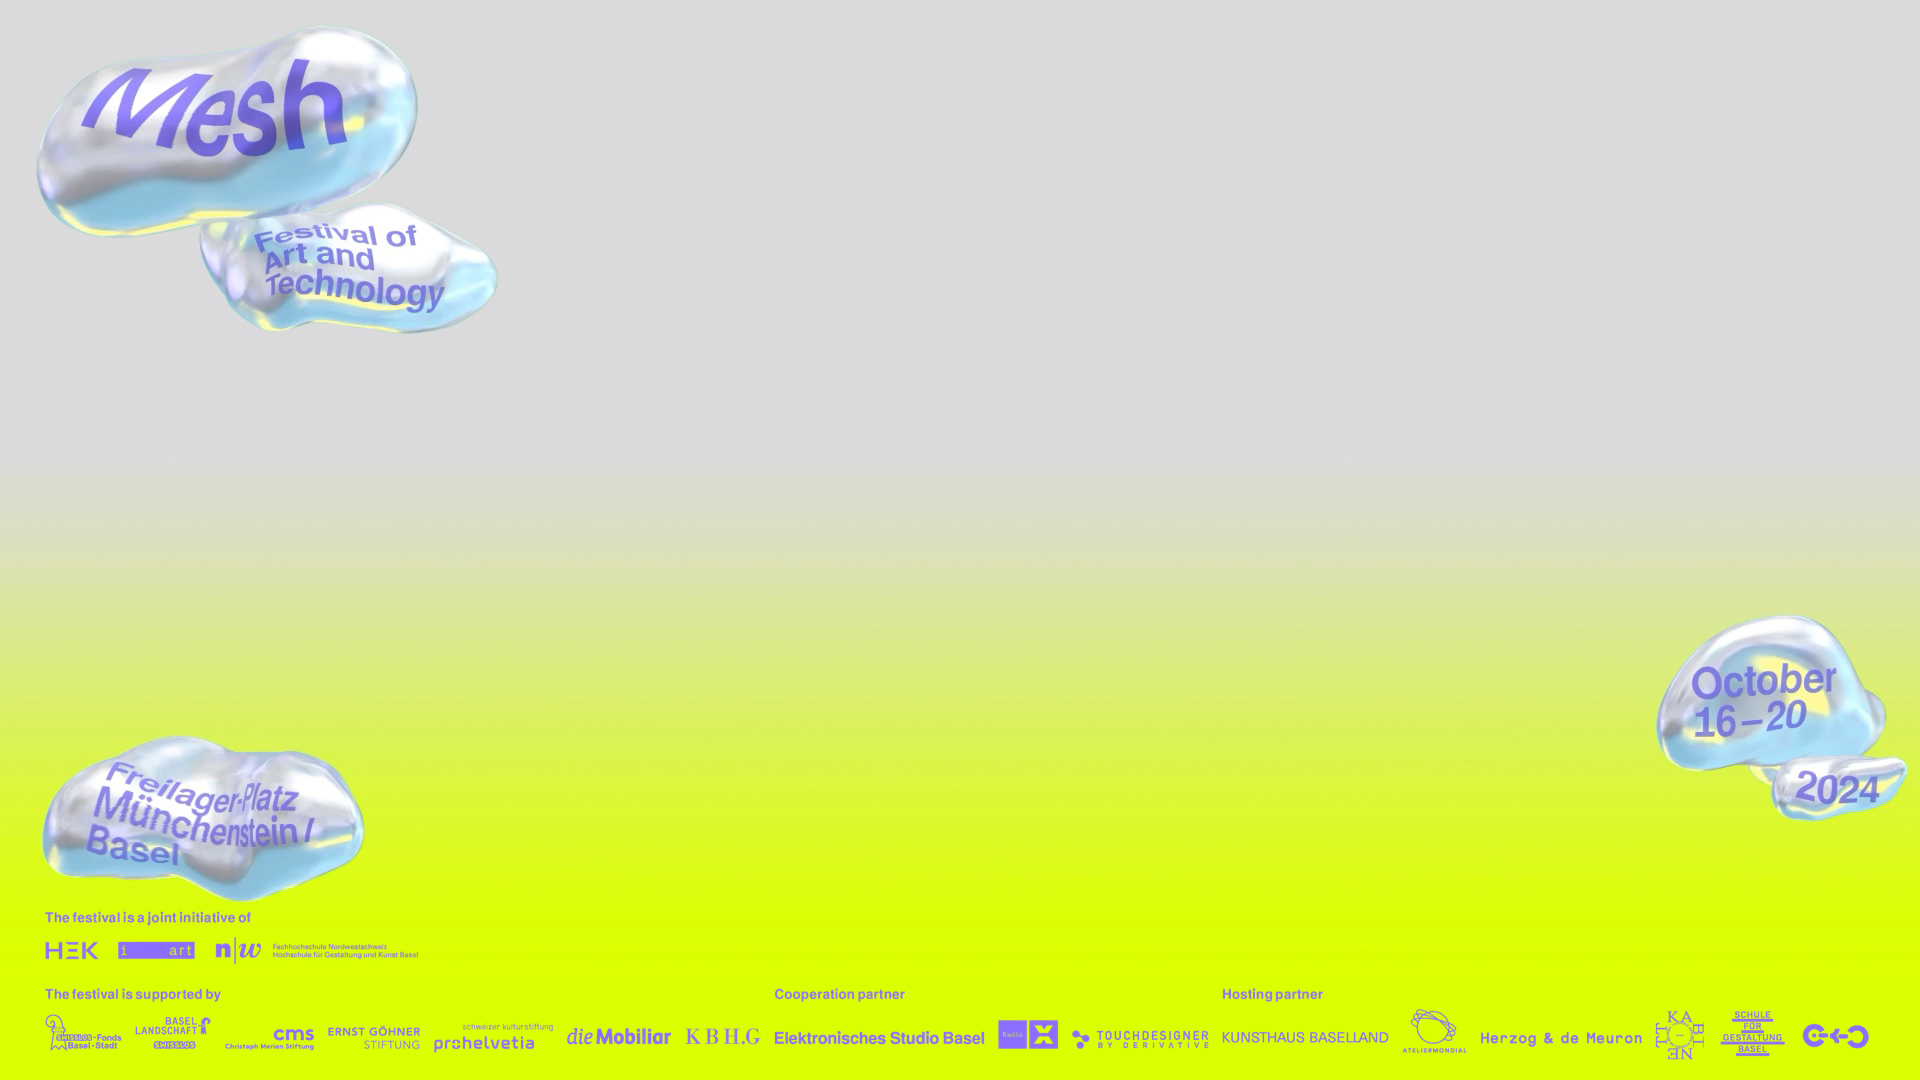
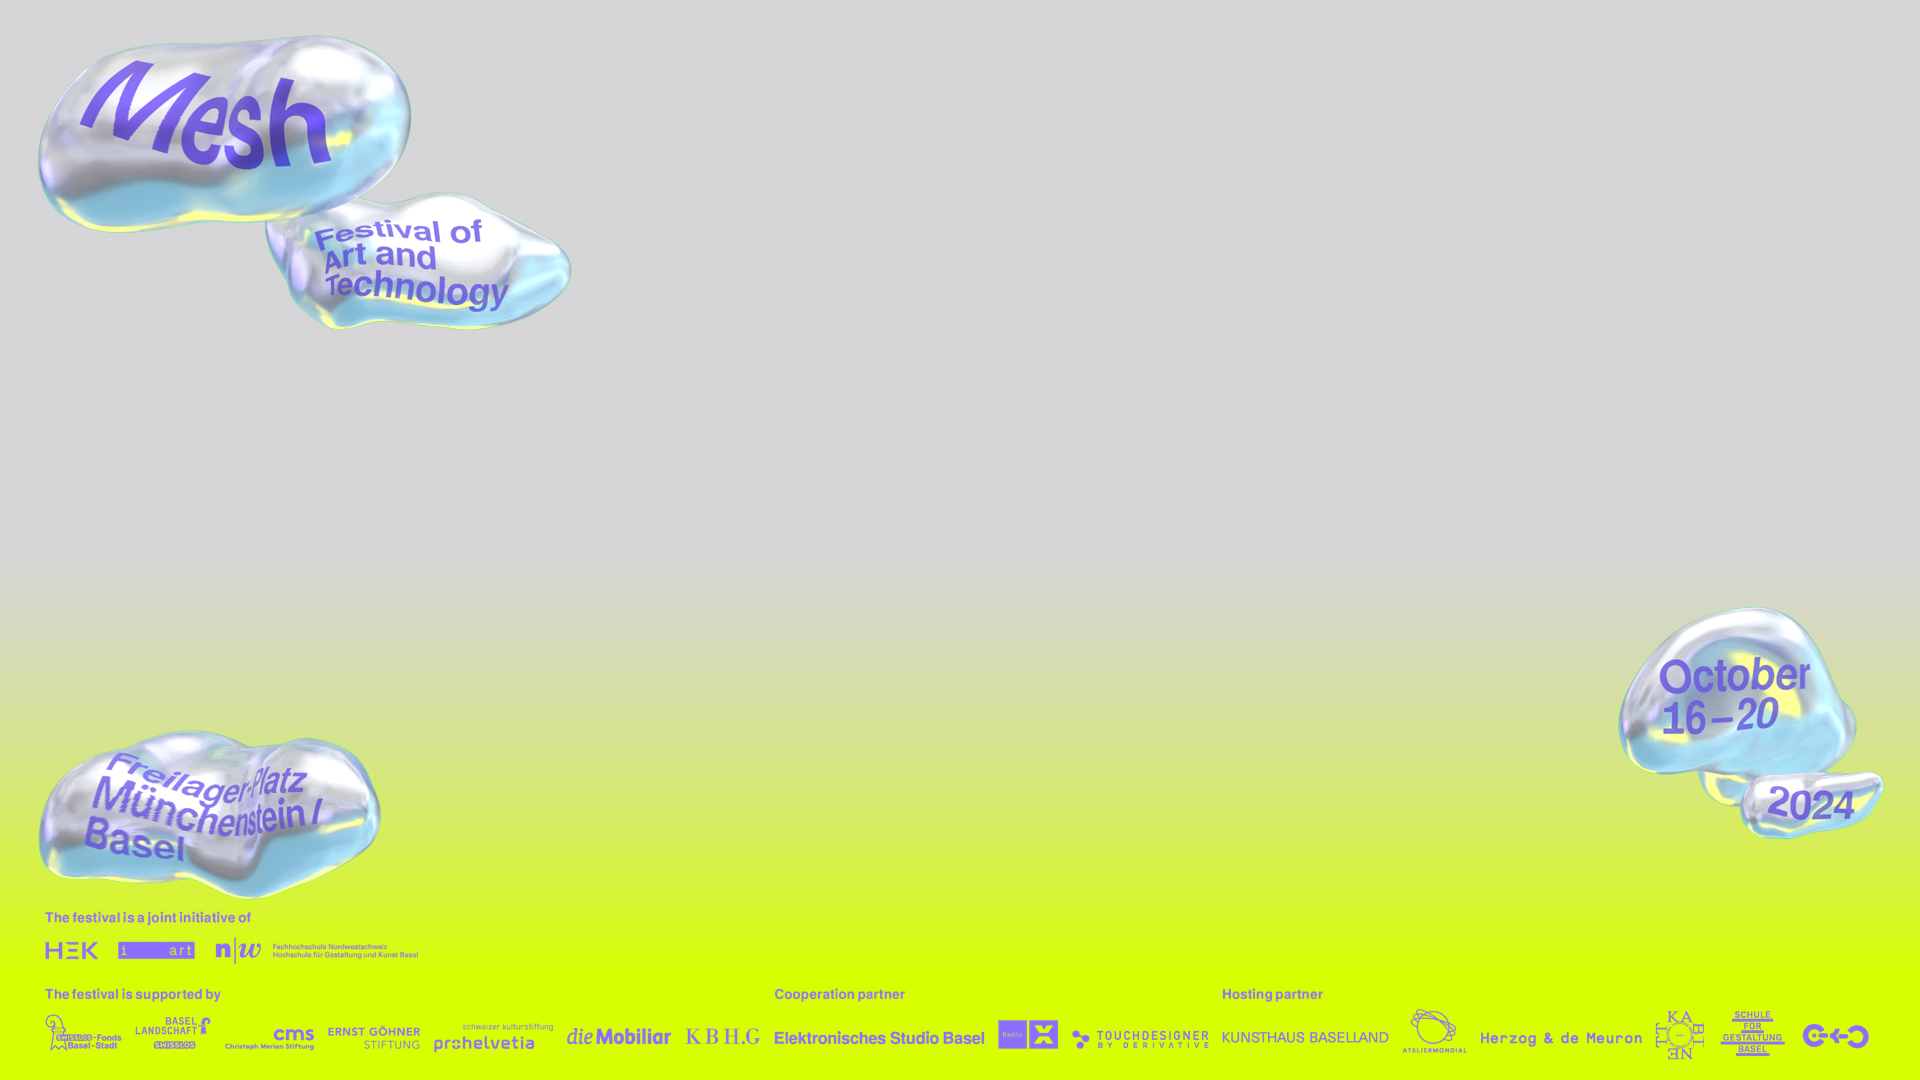
Update Template

diff --git a/static/html/template.html b/static/html/template.html
@@ -139,35 +139,49 @@
             const ctx = canvas.getContext('2d');
             ctx.clearRect(0, 0, 1920, 1080);
 
-            ctx.font = fontSize1*scale+'px FreeSans-JK';
-            ctx.fillStyle = '#8C6EFF'
-            ctx.textAlign = "center";
-            ctx.textBaseline = 'bottom';
+            var background = new Image();
+            background.src = "template1.png";
 
-            y = center;
-            for (let i = separateLines1.length-1; i > -1; i--) {
-                ctx.fillText(separateLines1[i], 960, y);
-                y = y - lineHeightSans*scale;
+            background.onload = function(){
+                ctx.drawImage(background,0,0);   
+
+                ctx.font = fontSize1*scale+'px FreeSans-JK';
+                ctx.fillStyle = '#8C6EFF'
+                ctx.textAlign = "center";
+                ctx.textBaseline = 'bottom';
+
+                y = center;
+                for (let i = separateLines1.length-1; i > -1; i--) {
+                    ctx.fillText(separateLines1[i], 960, y);
+                    y = y - lineHeightSans*scale;
+                }
+
+
+                ctx.textBaseline = 'top';
+                ctx.font = fontSize2*scale+'px FreeSerif-JK';
+                y = center;
+                for (let i = 0; i < separateLines2.length; i++) {
+                    ctx.fillText(separateLines2[i], 960, y);
+                    y = y + lineHeight*scale;
+                }
+                
+                var foreground = new Image();
+                foreground.src = "template2.png";
+
+                foreground.onload = function(){
+                    ctx.drawImage(foreground,0,0);   
+
+                    var dataURL = canvas.toDataURL("image/png");
+
+                    $('body').append('<a id="image" href="'+dataURL+'" download="Mesh-Festival-Cover.png"><img src="'+dataURL+'"></>');
+
+                }
+
+
             }
 
 
-            ctx.textBaseline = 'top';
-            ctx.font = fontSize2*scale+'px FreeSerif-JK';
-            y = center;
-            for (let i = 0; i < separateLines2.length; i++) {
-                ctx.fillText(separateLines2[i], 960, y);
-                y = y + lineHeight*scale;
-            }
-            
 
-            var dataURL = canvas.toDataURL("image/png");
-
-            $('body').append('<a id="image" href="'+dataURL+'" download="Mesh-Festival-Cover.png"><img src="'+dataURL+'"></>');
-
-            
-
-
-           // });
 
 
 